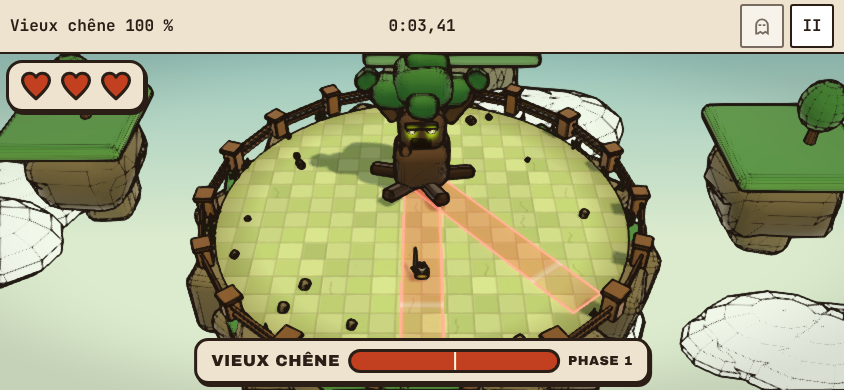
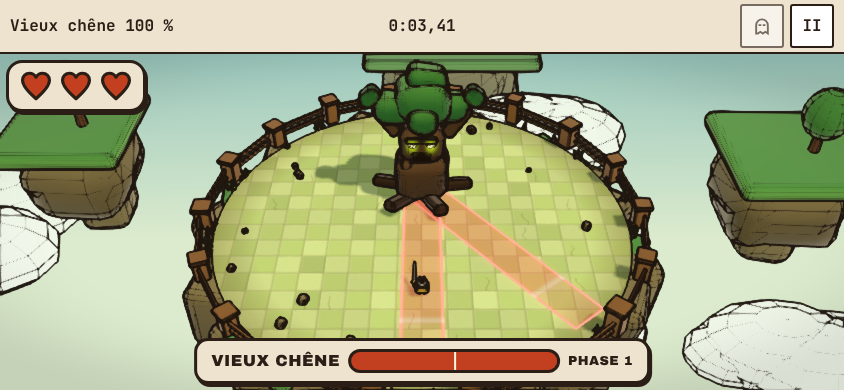
Rush BR3 : rendu des boss achevé, curseur d'affinité, README du lot
Claude-Session: https://claude.ai/code/session_012eMWG2nhxX7UpN2RaTwDVn

diff --git a/apps/rush/e2e/boss.spec.ts b/apps/rush/e2e/boss.spec.ts
@@ -1,10 +1,22 @@
 import { expect, test, type Page } from "@playwright/test";
-import { BOSS_IDS } from "@cdj/rush-sim";
-import { appareil, lancer } from "./appareil";
+import { parseDay } from "@cdj/core";
+import { BOSS_IDS, Partie, contenuScenario } from "@cdj/rush-sim";
+import { JOUR, appareil, lancer } from "./appareil";
 
 // « Rush » (lot BR3) — les CINQ boss côté vue : chacun se charge sans erreur dans la console, la barre de vie porte son nom et sa phase, sa présentation paraît, il annonce et frappe sans erreur, et la scène reste sous 200 appels de dessin dans les deux
 // niveaux de qualité. Le bestiaire montre les cinq côte à côte, figés, avec leur nom. Les règles du combat (zones, états, étourdissement) sont dans `packages/rush-sim/test`.
 const NOMS: Record<string, string> = { golem: "Golem", reine: "Reine gelée", "grand-duc": "Grand-duc", belier: "Bélier de carrière", chene: "Vieux chêne" };
+
+/** Les ticks que le boss met à commencer sa première annonce (la simulation, la même qu'en page, chevalier immobile) : la page les joue d'un seul appel — `avancer(n)` dessine UNE image par appel, et un dessin coûte cher sans carte graphique. */
+function ticksAvantAnnonce(id: string): number {
+  const p = new Partie(contenuScenario("boss", { jour: parseDay(JOUR)!, boss: BOSS_IDS.indexOf(id as (typeof BOSS_IDS)[number]) }));
+  let n = 0;
+  while (p.golem!.etat !== 1 && n < 1000) {
+    p.avancer(0);
+    n++;
+  }
+  return n;
+}
 
 /** Écoute la console et les erreurs de la page : les erreurs se lisent à la fin du test. */
 function espionner(page: Page): string[] {
@@ -30,10 +42,7 @@ test.describe("Rush : les cinq boss", () => {
       // sa présentation : une pastille avec son nom, ~1 s
       await expect(page.locator(".rush-presentation")).toHaveText(NOMS[id]!);
       // jusqu'à sa première annonce, puis au beau milieu : la scène se dessine, sous 200 appels (haute et basse qualité)
-      await page.evaluate(() => {
-        for (let i = 0; i < 400 && window.__rush.partie().golem!.etat !== 1; i++) window.__jeu.avancer(1);
-        window.__jeu.avancer(40);
-      });
+      await page.evaluate((n) => window.__jeu.avancer(n + 40), ticksAvantAnnonce(id));
       expect(await page.evaluate(() => window.__rush.partie().golem!.etat)).toBe(1);
       for (const q of ["haute", "basse"] as const) {
         const appels = await page.evaluate((q) => {
@@ -45,12 +54,10 @@ test.describe("Rush : les cinq boss", () => {
         expect(appels).toBeGreaterThan(10);
       }
       // il continue : ses attaques, ses impacts, sa récupération, sans erreur
-      await page.evaluate(() => {
-        for (let i = 0; i < 900; i++) {
-          window.__jeu.avancer(1);
-          if (i % 30 === 0) window.__rush.dessinerMaintenant();
-        }
-      });
+      for (let i = 0; i < 4; i++) {
+        await page.evaluate(() => window.__jeu.avancer(180));
+        await page.evaluate(() => window.__rush.dessinerMaintenant());
+      }
       expect(erreurs).toEqual([]);
       await context.close();
     });

diff --git a/apps/rush/e2e/captures-lot-br3.spec.ts b/apps/rush/e2e/captures-lot-br3.spec.ts
@@ -1,18 +1,25 @@
 import { test, type Page } from "@playwright/test";
-import { appareil, lancer } from "./appareil";
+import { parseDay } from "@cdj/core";
+import { BOSS_IDS, Partie, contenuScenario } from "@cdj/rush-sim";
+import { JOUR, appareil, lancer } from "./appareil";
 
 // Les captures du lot BR3 (jamais en CI) : `CAPTURES=1 npx playwright test captures-lot-br3 --project=chromium --trace off` dans apps/rush.
 // Le bestiaire sur les trois thèmes (1280 × 720), puis chaque boss en train d'annoncer une attaque (844 × 390 : un téléphone en paysage).
 const DOSSIER = "../../docs/rush/lots";
 
-/** Avance jusqu'à la première annonce du boss, puis de `apres` ticks, et dessine. */
-async function annoncer(page: Page, apres: number): Promise<void> {
-  await page.evaluate((apres) => {
-    for (let i = 0; i < 400 && window.__rush.partie().golem!.etat !== 1; i++) window.__jeu.avancer(1);
-    window.__jeu.avancer(apres);
+/** Avance jusqu'à la première annonce du boss, puis de `apres` ticks, et dessine (les ticks se comptent en Node : `avancer(n)` dessine une image par appel). */
+async function annoncer(page: Page, id: string, apres: number): Promise<void> {
+  const p = new Partie(contenuScenario("boss", { jour: parseDay(JOUR)!, boss: BOSS_IDS.indexOf(id as (typeof BOSS_IDS)[number]) }));
+  let n = 0;
+  while (p.golem!.etat !== 1 && n < 1000) {
+    p.avancer(0);
+    n++;
+  }
+  await page.evaluate((t) => {
+    window.__jeu.avancer(t);
     window.__rush.dessinerMaintenant();
-  }, apres);
-  await page.waitForTimeout(120);
+  }, n + apres);
+  await page.waitForTimeout(150);
 }
 
 test.describe("captures du lot BR3", () => {
@@ -41,7 +48,7 @@ test.describe("captures du lot BR3", () => {
       const { context, page } = await appareil(browser, `/?debug&manuel&tactile=0&scenario=boss&boss=${id}&theme=${theme}`);
       await page.setViewportSize({ width: 844, height: 390 });
       await lancer(page);
-      await annoncer(page, ticks);
+      await annoncer(page, id, ticks);
       await page.screenshot({ path: `${DOSSIER}/br3-annonce-${id}.png` });
       await context.close();
     });

diff --git a/apps/rush/src/bosses.ts b/apps/rush/src/bosses.ts
@@ -110,7 +110,7 @@ export function cadreDuBoss(kind: number, haut = 0): { haut: number; r: number }
     case B_BELIER:
       return { haut: 3.8, r: 3.6 };
     case B_CHENE:
-      return { haut: 8.6, r: 3.4 };
+      return { haut: 8.2, r: 3.4 };
     default:
       return { haut: 5.1, r: 3.0 };
   }
@@ -357,8 +357,8 @@ function corpsDuBelier(): BufferGeometry {
 }
 function teteDuBelier(): BufferGeometry {
   const corne = (s: 1 | -1): BufferGeometry[] => [
-    cone(0.6, 1.9, 8, { x: s * 1.3, y: 0.5, z: 0.25, rz: -s * 1.15 }, B.corne),
-    cone(0.42, 1.8, 8, { x: s * 2.25, y: 0.75, z: 0.95, rz: -s * 0.25, rx: 1.15 }, B.corne),
+    cone(0.6, 1.9, 8, { x: s * 1.2, y: 0.6, z: 0.35, rz: -s * 0.85, rx: 0.35 }, B.corne),
+    cone(0.42, 1.8, 8, { x: s * 1.95, y: 1.15, z: 1.05, rz: -s * 0.2, rx: 1.25 }, B.corne),
   ];
   return fusionner([
     placer(bloc(1.9, 1.7, 1.7, { couleur: B.couleur, dessus: B.dessus, graine: 311, rayon: 0.55 }), { y: 0, z: 0.5 }),
@@ -528,7 +528,7 @@ function brasDuChene(s: 1 | -1): BufferGeometry {
 
 function creerChene(): CheneVu {
   const racine = new Group();
-  racine.scale.setScalar(0.85); // ~8,5 m de haut : plus grand que le golem, mais la caméra le garde dans l'image
+  racine.scale.setScalar(0.8); // ~8 m de haut : plus grand que le golem, mais la caméra le garde dans l'image
   const corps = new Group();
   racine.add(corps);
   const matieres: MeshToonMaterial[] = [];

diff --git a/apps/rush/e2e/determinisme.spec.ts b/apps/rush/e2e/determinisme.spec.ts
@@ -30,7 +30,7 @@ test("le navigateur rejoue les rediffusions de référence et trouve exactement 
   expect(rejoue.map((r) => [r.nom, r.resultat])).toEqual(golden.rediffusions.map((r) => [r.nom, r.resultat]));
   expect(golden.rediffusions.length).toBeGreaterThanOrEqual(3);
 
-  const scenarios = await page.evaluate((refs) => (window as unknown as { __scenarios(r: unknown): { nom: string; empreinte: string; resultat: unknown }[] }).__scenarios(refs), golden.scenarios.map(({ nom, scenario, monstres, ameliorations, nv, code, ticks }) => ({ nom, scenario, monstres, ameliorations, nv, code, ticks })));
+  const scenarios = await page.evaluate((refs) => (window as unknown as { __scenarios(r: unknown): { nom: string; empreinte: string; resultat: unknown }[] }).__scenarios(refs), golden.scenarios.map(({ nom, scenario, monstres, ameliorations, nv, boss, phase2, code, ticks }) => ({ nom, scenario, monstres, ameliorations, nv, boss, phase2, code, ticks })));
   expect(scenarios.map((r) => [r.nom, r.empreinte, r.resultat])).toEqual(golden.scenarios.map((r) => [r.nom, r.empreinte, r.resultat]));
-  expect(golden.scenarios.length).toBe(4);
+  expect(golden.scenarios.length).toBe(8); // lot BR3 : les quatre scénarios du BR2 et un par boss (la reine, le grand-duc en phase 2, le bélier, le chêne en phase 2)
 });

diff --git a/apps/rush/src/verify.ts b/apps/rush/src/verify.ts
@@ -19,6 +19,9 @@ export interface ScenarioReference {
   monstres: number;
   ameliorations: string[];
   nv: number;
+  /** Lot BR3 : le boss (indice) et la phase 2 du scénario `boss`. */
+  boss: number;
+  phase2: boolean;
   code: string;
   ticks: number;
 }
@@ -37,7 +40,7 @@ window.__rejouer = (references) => references.map((r) => ({ nom: r.nom, resultat
 window.__scenarios = (references) =>
   references.map((r) => {
     const d = decoderRediffusion(r.code);
-    const jeu = jouerJusqua(contenuScenario(r.scenario, { monstres: r.monstres, ameliorations: r.ameliorations, nv: r.nv }), d.changements, r.ticks, undefined, d.choix);
+    const jeu = jouerJusqua(contenuScenario(r.scenario, { monstres: r.monstres, ameliorations: r.ameliorations, nv: r.nv, boss: r.boss, phase2: r.phase2 }), d.changements, r.ticks, undefined, d.choix);
     return { nom: r.nom, empreinte: jeu.empreinte, resultat: jeu.resultat };
   });
 document.documentElement.dataset.ready = "true";

diff --git a/apps/rush/src/tune.ts b/apps/rush/src/tune.ts
@@ -53,6 +53,7 @@ const CURSEURS: Curseur[] = [
   { cle: "volVie", groupe: "sim", libelle: "tune.volVie", min: BORNES.volVie[0], max: BORNES.volVie[1] },
   { cle: "briseDegats", groupe: "sim", libelle: "tune.briseDegats", min: BORNES.briseDegats[0], max: BORNES.briseDegats[1] },
   { cle: "aimantGain", groupe: "sim", libelle: "tune.aimantGain", min: BORNES.aimantGain[0], max: BORNES.aimantGain[1] },
+  { cle: "affinite", groupe: "sim", libelle: "tune.affinite", min: BORNES.affinite[0], max: BORNES.affinite[1] },
   { cle: "arretImage", groupe: "vue", libelle: "tune.arretImage", min: BORNES_SENSATIONS.arretImage[0], max: BORNES_SENSATIONS.arretImage[1] },
   { cle: "arretPhase", groupe: "vue", libelle: "tune.arretPhase", min: BORNES_SENSATIONS.arretPhase[0], max: BORNES_SENSATIONS.arretPhase[1] },
   { cle: "secousse", groupe: "vue", libelle: "tune.secousse", min: BORNES_SENSATIONS.secousse[0], max: BORNES_SENSATIONS.secousse[1] },

diff --git a/apps/rush/test/bosses.test.ts b/apps/rush/test/bosses.test.ts
@@ -54,10 +54,10 @@ describe("les cinq boss (lot BR3) : les tailles", () => {
     expect(T[3]!.y).toBeGreaterThan(3);
     expect(T[3]!.y).toBeLessThan(4.6);
   });
-  it("le vieux chêne : 7,5 à 9,5 m de haut, 6 à 10 m de large (cime, bras et racines)", () => {
-    expect(T[4]!.y).toBeGreaterThan(7.5);
+  it("le vieux chêne : 7 à 9,5 m de haut, 5,5 à 10 m de large (cime, bras et racines)", () => {
+    expect(T[4]!.y).toBeGreaterThan(7);
     expect(T[4]!.y).toBeLessThan(9.5);
-    expect(T[4]!.x).toBeGreaterThan(6);
+    expect(T[4]!.x).toBeGreaterThan(5.5);
     expect(T[4]!.x).toBeLessThan(10);
   });
   it("chaque boss est bien plus grand que le chevalier (1,5 m)", () => {

diff --git a/apps/rush/src/catalogue.en.ts b/apps/rush/src/catalogue.en.ts
@@ -122,6 +122,7 @@ export const CATALOGUE_EN: { readonly [K in keyof typeof CATALOGUE_FR]: string }
   "tune.volVie": "Life steal: monsters per heart",
   "tune.briseDegats": "Stonebreaker: boss (%/tier)",
   "tune.aimantGain": "Magnet: radius (%/tier)",
+  "tune.affinite": "Boss affinity (%/favoured tier)",
   "tune.courseRayon": "Run: alert radius (cm)",
   "tune.arretImage": "Finisher hit stop (ms)",
   "tune.arretPhase": "Phase 2 hit stop (ms)",

diff --git a/apps/rush/src/catalogue.fr.ts b/apps/rush/src/catalogue.fr.ts
@@ -120,6 +120,7 @@ export const CATALOGUE_FR = {
   "tune.volVie": "Vol de vie : monstres par cœur",
   "tune.briseDegats": "Brise-pierre : boss (%/palier)",
   "tune.aimantGain": "Aimant : rayon (%/palier)",
+  "tune.affinite": "Affinité du boss (%/palier favori)",
   "tune.arretImage": "Arrêt du coup final (ms)",
   "tune.arretPhase": "Arrêt de la phase 2 (ms)",
   "tune.secousse": "Secousse de caméra (%)",

diff --git a/apps/rush/src/rush.css b/apps/rush/src/rush.css
@@ -646,7 +646,7 @@
   border-radius: 12px;
   box-shadow: 2px 3px 0 var(--dj-encre);
   font-family: "Archivo Black", var(--dj-police-corps, sans-serif);
-  font-size: clamp(12px, 1.5vw, 18px);
+  font-size: clamp(11px, 1.25vw, 16px);
   line-height: 1.1;
   letter-spacing: 0.03em;
   text-transform: uppercase;

diff --git a/docs/rush/lots/lot-BR3-boss.md b/docs/rush/lots/lot-BR3-boss.md
@@ -38,13 +38,19 @@ Par boss (foncer / peu / beaucoup) : golem 25 / 58 / 18 % · reine 23 / 63 / 14 
 - 7 défaites de « foncer » sur 365 jours (3 reines, 3 chênes, 1 golem) ; 2 jours à plus de 120 s (jour 295 : le pilote reste coincé 30 s dans une clairière avant la barrière — défaut du pilote existant, hors boss).
 
 ## 4. Scénarios à 2 clics (en local : `npm run dev -w @cdj/rush`)
-(à compléter avec les liens et les captures)
+Tous en local, `npm run dev -w @cdj/rush`, puis les adresses sur le serveur de développement du jeu (port affiché) :
+- Chaque boss seul : `/?debug&scenario=boss&boss=golem` · `…&boss=reine` · `…&boss=grand-duc` · `…&boss=belier` · `…&boss=chene` ; ajouter `&phase=2` (déjà à 50 %) et `&ameliorations=lame-lourde,cadence` (un identifiant répété = un palier de plus). La pastille du nom s'affiche au départ.
+- **Le bestiaire** (nouveau, la référence de BR-A) : `/?debug&scenario=bestiaire` (`&theme=prairie|carriere|sousbois`) : les cinq boss côte à côte, figés, nom dessous, le chevalier devant pour l'échelle.
+- Le boss de chaque jour et la stratégie la plus rapide : `/?debug&scenario=carte&jours=14`.
+- Le jour complet : `/?debug&scenario=jour` (`&jour=AAAA-MM-JJ` pour un autre).
+- **Captures** (`docs/rush/lots/`, outil `e2e/captures-lot-br3.spec.ts`, `CAPTURES=1`) : `br3-bestiaire-prairie.png`, `-carriere.png`, `-sousbois.png` (1280 × 720) et `br3-annonce-golem|reine|grand-duc|belier|chene.png` (844 × 390, chaque boss pendant une annonce). J'en ai regardé deux (bestiaire prairie, annonce du grand-duc) ; l'agent de rendu en a regardé sept et corrigé en trois tours (ailes du duc, cornes du bélier, cime du chêne coupée, yeux de la reine). Les silhouettes se distinguent sur les trois thèmes ; le rouge ne sert qu'aux bandes et cercles.
 
 ## 5. Mesures
 - **Rejeu, pire jour** (10 minutes, chevalier invincible qui court en rond, le boss immortel ; Node, `npm run mesures:rush`) : golem **226 ms**, reine **220 ms**, grand-duc **233 ms**, bélier **244 ms**, chêne **237 ms** (BR2 : 248 ms) ; estimation Cloud Run ×3 : ~700 à 730 ms. Le budget du kit est `rejeu.unitesServeur` = **1** (une unité du plafond global ≈ 15 ms de calcul, lot R7) : ces rejeux valent **~15 unités**, un rejeu normal du pilote (~20 ms) ~1,5. **Il faut soit `ticksParUnite` (fiche, comme Track : p. ex. 2 500 ticks par unité → 36 000 ticks = 14 unités, une partie de 3 500 ticks = 2), soit 2 unités par défaut** : décision pour Nathan (§6) ; rien n'est changé dans la fiche.
 - **Taille de la rediffusion** (pilote qui fonce, 60 jours forcés) : au plus 788 (golem), 684 (reine), 840 (grand-duc), 1 266 (bélier), 8 134 (chêne : un combat de 80 s où le pilote contourne beaucoup) caractères, pour 40 000 permis.
 - **Générateur** : inchangé hors le tirage du boss (pur, en cache : 730 jours en < 1 ms).
-(à compléter : appels de dessin, triangles, poids)
+- **Appels de dessin** (`?debug&fps`, maximum sur 500 ticks de combat, haute / basse qualité ; `e2e/boss.spec.ts` impose < 200) : golem 53 / 52 · reine 33 / 32 · grand-duc 36 / 35 · bélier 43 / 42 · chêne 39 / 37 (phase 2 : 42 / 41) · bestiaire 81 / 79. **Mesuré en rendu logiciel** (SwiftShader) : aucune image par seconde, et les triangles ne sont pas relevés.
+- **Poids** : premier chargement **43 705 octets gzip pour 44 000** (43 626 avant : +79 octets, **295 octets de marge**) ; scène à la demande `corps-` 194 281 octets (186 215 avant : +8 Ko), simulation à la demande `rediffusion-` en hausse (les quatre boss, le tirage). Aucun relèvement du plafond `rush.jsCss`.
 
 ## 6. Questions pour Nathan
 - **« Beaucoup d'XP » plafonne à ~12 %** (cible ~15 %) : `xpCamp` 450 % et le seuil de « peu » à 32 m ne suffisent pas. Veux-tu un niveau avec moins de monstres sur le chemin (donc moins d'XP gratuite pour « peu »), ou acceptes-tu 12 % ?
@@ -53,8 +59,9 @@ Par boss (foncer / peu / beaucoup) : golem 25 / 58 / 18 % · reine 23 / 63 / 14 
 - **L'affinité** (×1,3 par palier de carte favorite, 30 %) : ajout hors prompt, utile pour que le choix de carte dépende du boss. Trop ou pas assez ?
 - **Brise-pierre** ne vaut plus que 35 % contre la reine, le grand-duc et le chêne : le nom dit « pierre ». À garder ?
 - **Piliers du bélier** non faits (facultatif) : on les fait en BR-A / BR4 ?
+- **Textes de Nathan adaptés** : `scene.aria`, `accueil.phrase.*`, `aide.point1` et `aide.point2` disaient « golem » : ils disent « boss » (fr et en), à relire.
 - Hors lot (noté pour BR5) : actions `carte1` à `carte3` réglables (règle M2) et déclaration de l'écran du choix dans `manette.ts` du kit (règle M1).
 
 ## 7. Tests et ce qui n'est pas vérifié
-- **Sim** : `test/bosses.test.ts` (66 tests : catalogue, tirage sur deux ans, règles communes × 5 boss, mécaniques propres, affinité, pilote × 5 sur 60 jours forcés, rediffusion d'une semaine) ; golden **régénéré** (+ 4 scénarios, un par nouveau boss, deux en phase 2) ; `xp.test.ts` (équilibre sur 45 jours) et les 177 tests existants passent. **API** : `rush.test.ts` (12) passe.
-- **Non vérifié** : le **ressenti** (rien n'a été joué à la main : la lisibilité des annonces en mouvement, la force de l'affinité, le plaisir de chaque boss) ; l'équilibre contre de vrais joueurs (c'est celui du **pilote**, qui connaît le boss du jour et joue sans erreur de lecture) ; une vraie manette, un vrai téléphone ; Firefox et WebKit (le golden des nouveaux scénarios n'est lancé que dans Chromium par `determinisme.spec`) ; l'anglais n'a pas été relu par un humain.
+- **Sim** : `test/bosses.test.ts` (66 tests : catalogue, tirage sur deux ans, règles communes × 5 boss, mécaniques propres, affinité, pilote × 5 sur 60 jours forcés, rediffusion d'une semaine) ; golden **régénéré** (+ 4 scénarios, un par nouveau boss, deux en phase 2) ; `xp.test.ts` (équilibre sur 45 jours) et les 177 tests existants passent. **API** : `rush.test.ts` (12) passe. **App** : 101 tests (`test/bosses.test.ts` : tailles, formes, animation dans tous les états, cap, bestiaire, textes fr / en ; lisibilité des 5 boss × 3 thèmes et des nouvelles annonces ; adresse). **E2e (Chromium)** : `boss.spec.ts` (10 tests : chaque boss se charge sans erreur, nom et phase, bestiaire à cinq boss, appels < 200), `determinisme.spec.ts` (8 scénarios au lieu de 4 : `verify.ts` passe maintenant `boss` et `phase2`), `partie`, `choix`, `poids`, `classement` verts.
+- **Non vérifié** : le **ressenti** (rien n'a été joué à la main : la lisibilité des annonces en mouvement, la force de l'affinité, le plaisir de chaque boss) ; l'équilibre contre de vrais joueurs (c'est celui du **pilote**, qui connaît le boss du jour et joue sans erreur de lecture) ; une vraie manette, un vrai téléphone ; Firefox et WebKit (`determinisme.spec` n'est lancé que dans Chromium) ; l'anglais n'a pas été relu par un humain ; les sons des nouveaux événements sont ceux de BR2 réutilisés sans écoute ; le cadrage de la caméra pour le grand-duc en plongée et pour les six racines de la phase 2 n'est vu qu'en vignette.

diff --git a/docs/plateforme/traductions.md b/docs/plateforme/traductions.md
@@ -2,7 +2,7 @@
 
 Fichier **produit** par `npm run traductions` (lot I6 de la plateforme, `scripts/traductions.ts`) : ne pas le modifier à la main, modifier les catalogues puis relancer la commande (le test `packages/ui/test/traductions.test.ts` échoue si ce fichier n'est pas à jour). Pour Nathan : toutes les chaînes anglaises, la clé et le français en face, rangées par application puis par écran (le premier mot de la clé). Commencer par les **choix discutables** listés dans `docs/plateforme/lots/lot-I6-finitions.md`.
 
-2213 clés. Les paramètres (`{n}`, `{temps}`…) sont remplacés à l'affichage ; un pluriel s'écrit `one : …` · `other : …`. Les outils internes (`?debug&tune`, administration, galerie des morceaux) restent en français et ne sont pas ici ; les mentions légales anglaises sont une page statique (`apps/portail/legal/`), la page 404 porte les deux langues (`apps/portail/404.html`).
+2214 clés. Les paramètres (`{n}`, `{temps}`…) sont remplacés à l'affichage ; un pluriel s'écrit `one : …` · `other : …`. Les outils internes (`?debug&tune`, administration, galerie des morceaux) restent en français et ne sont pas ici ; les mentions légales anglaises sont une page statique (`apps/portail/legal/`), la page 404 porte les deux langues (`apps/portail/404.html`).
 
 ## Catalogue commun (`@cdj/ui` : composants, noms des jeux, médailles, erreurs du serveur, répliques de Jump)
 
@@ -2969,6 +2969,7 @@ Fichier **produit** par `npm run traductions` (lot I6 de la plateforme, `scripts
 | `tune.volVie` | Vol de vie : monstres par cœur | Life steal: monsters per heart |
 | `tune.briseDegats` | Brise-pierre : boss (%/palier) | Stonebreaker: boss (%/tier) |
 | `tune.aimantGain` | Aimant : rayon (%/palier) | Magnet: radius (%/tier) |
+| `tune.affinite` | Affinité du boss (%/palier favori) | Boss affinity (%/favoured tier) |
 | `tune.arretImage` | Arrêt du coup final (ms) | Finisher hit stop (ms) |
 | `tune.arretPhase` | Arrêt de la phase 2 (ms) | Phase 2 hit stop (ms) |
 | `tune.secousse` | Secousse de caméra (%) | Camera shake (%) |
